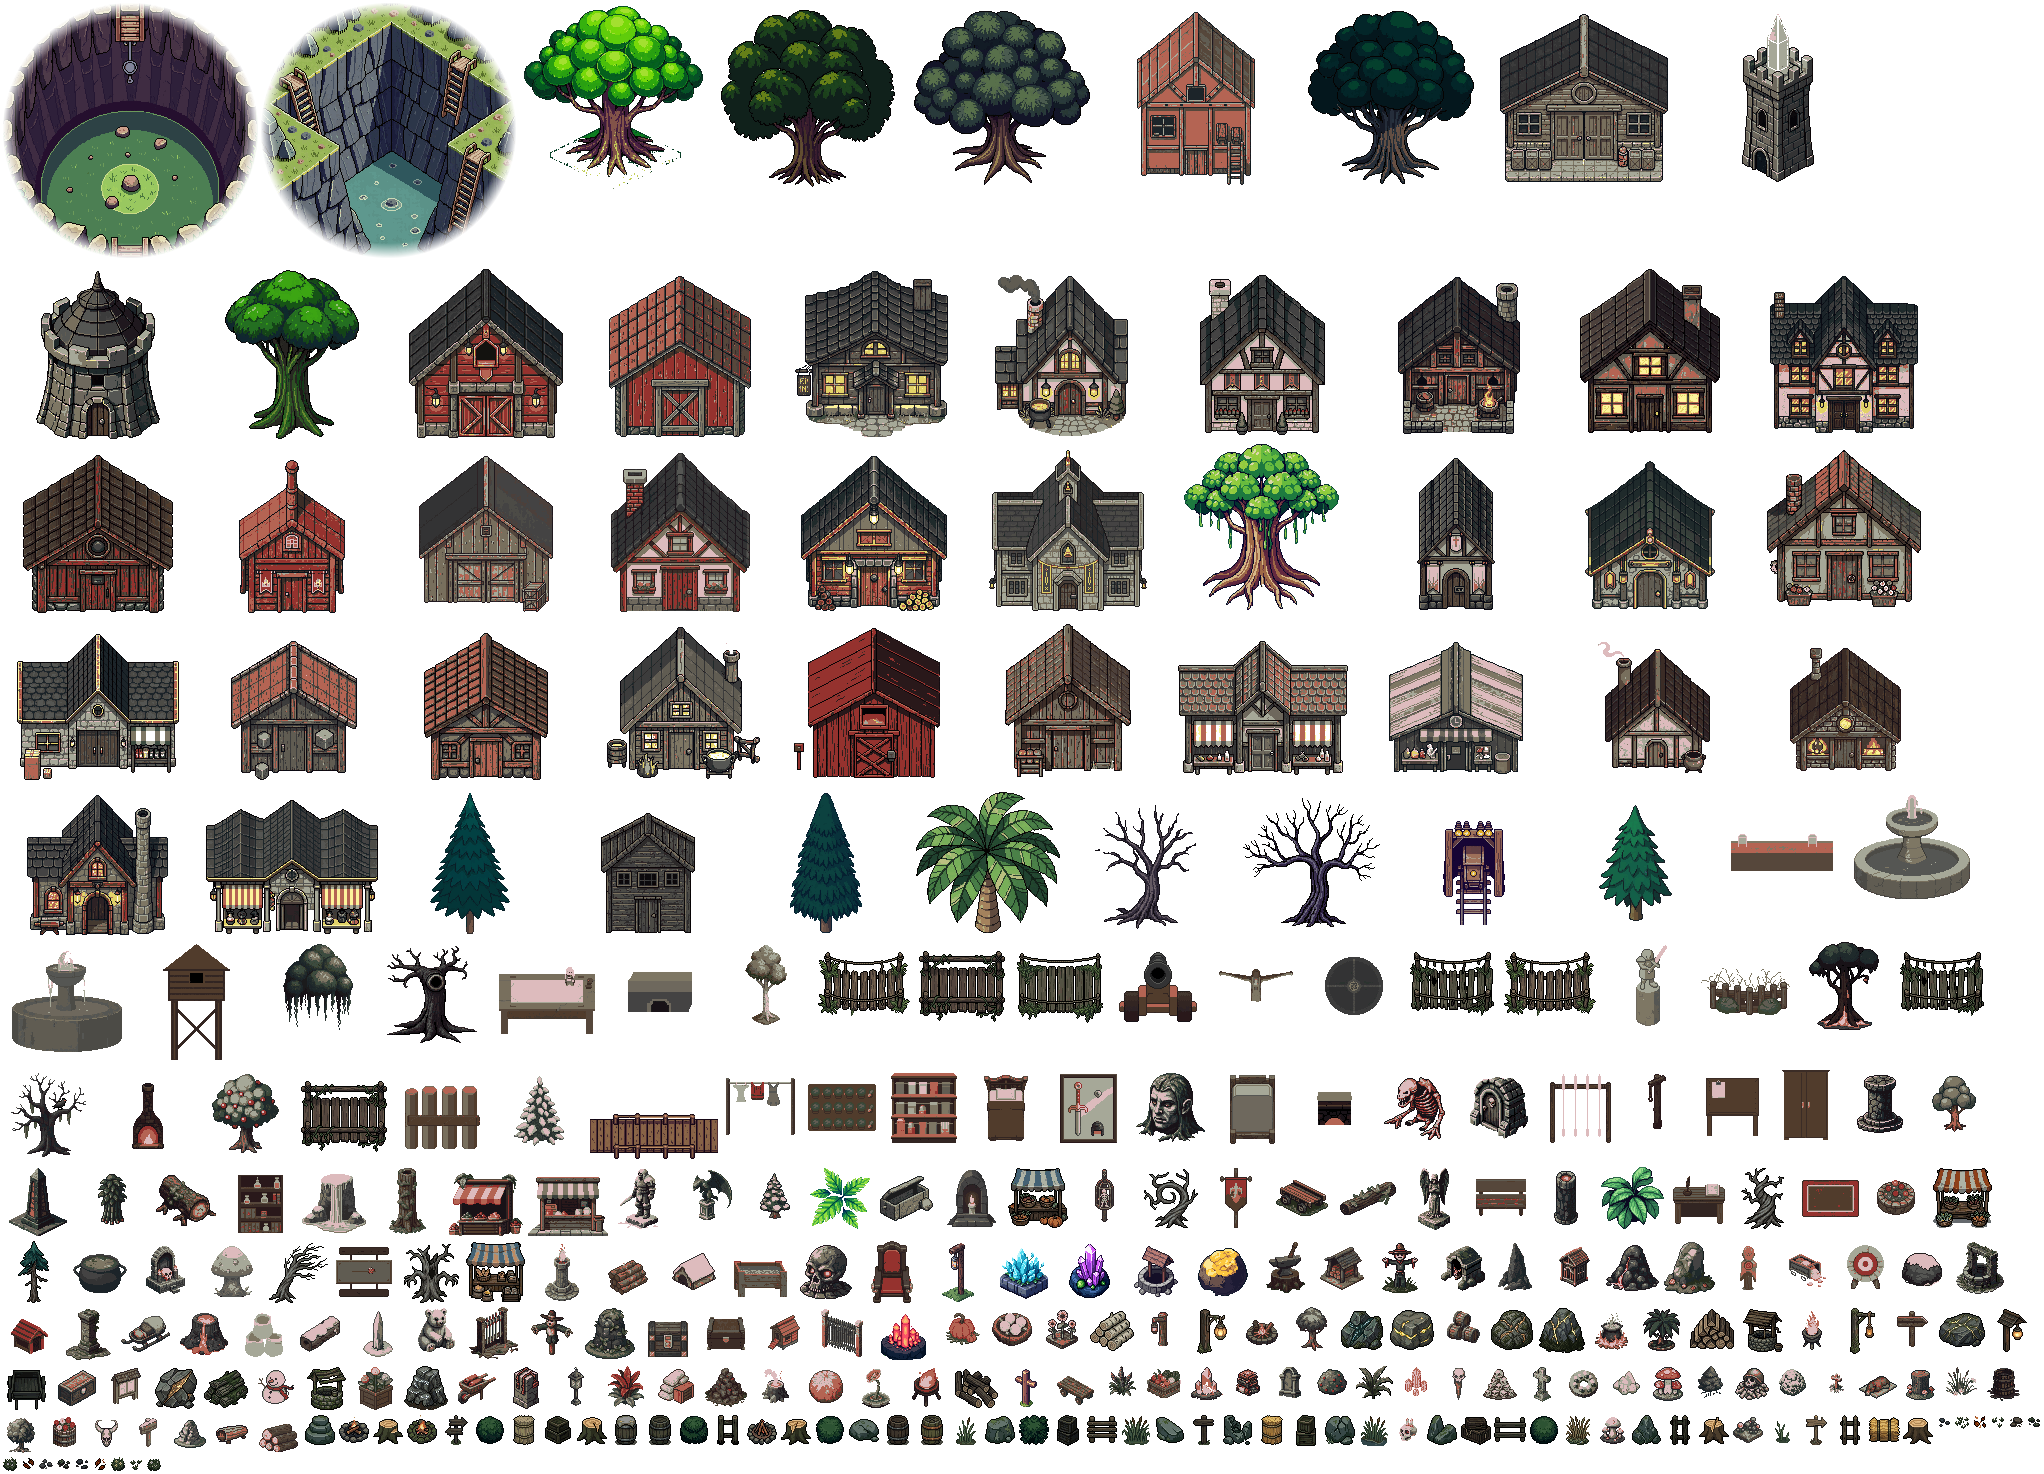
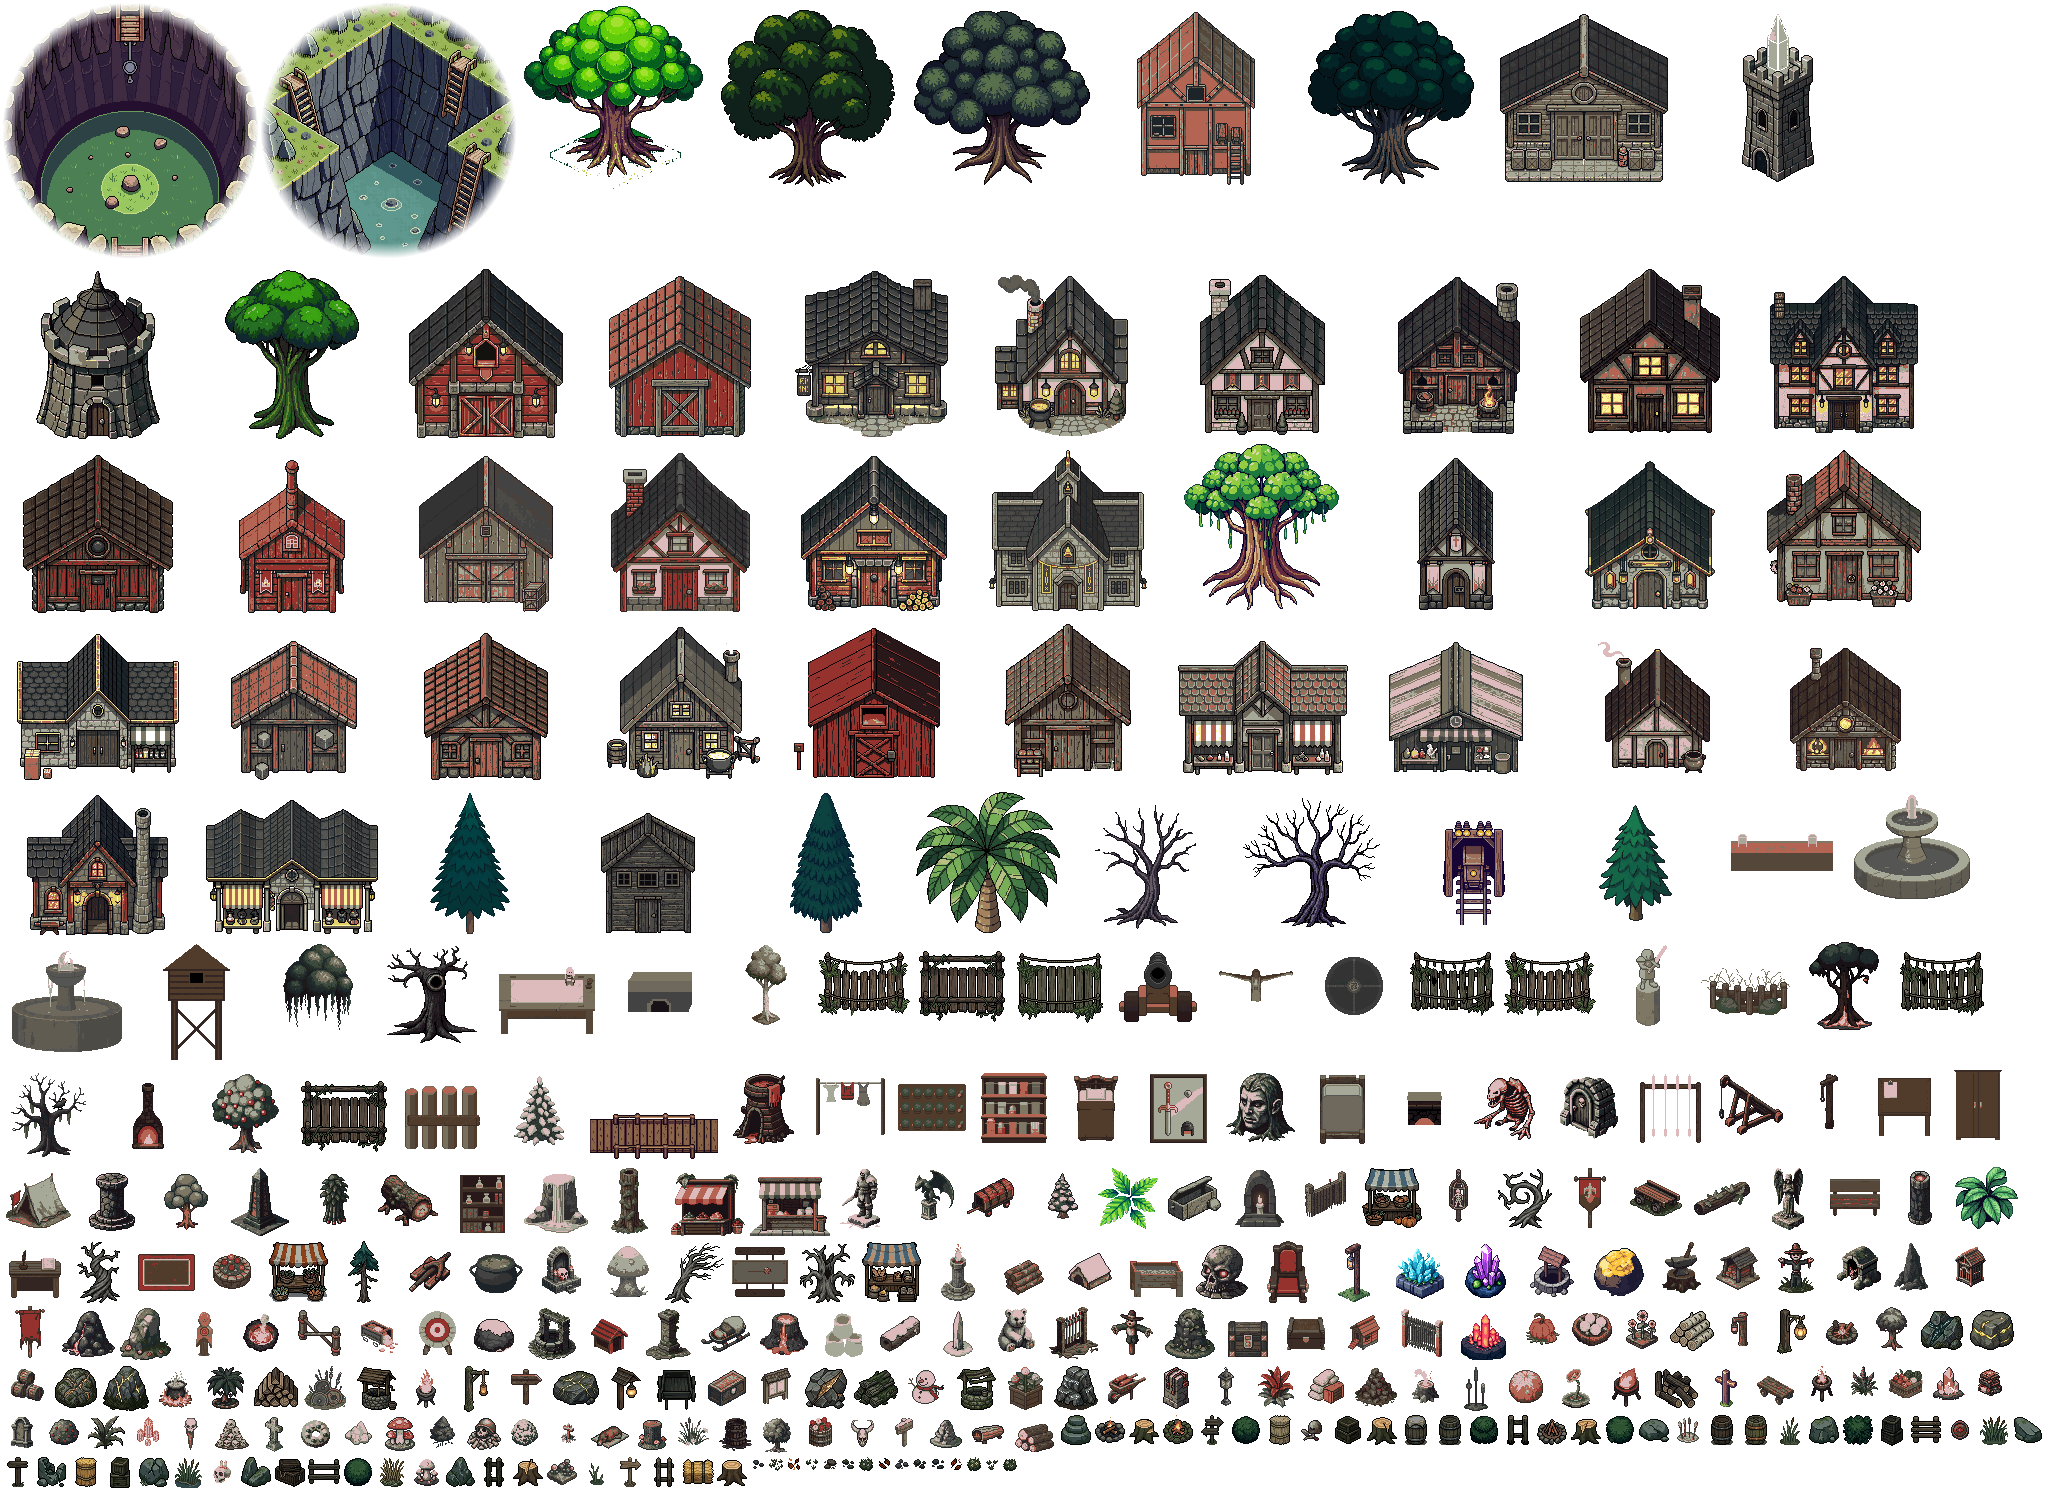
PvP battlefield WIP: war props (PixelLab), map data and rules [skip ci]
Claude-Session: https://claude.ai/code/session_018WYR7LhPJuZfA1TEgyVBxe

diff --git a/src/systems/pvp.ts b/src/systems/pvp.ts
@@ -1,0 +1,46 @@
+// ⚔ PvP battlefield rules (director 15 Nov): Lv40+, open at set hours (Bangkok), an entry fee in gold. Dying to a player
+// drops only what was farmed on the battlefield this visit (the "war bag": its gold and items) — gear worn or brought
+// in, VIP, diamonds, wings and mounts never drop. Damage between heroes is worked out by the map room (server).
+import type { GameState } from '../core/state';
+
+export const PVP_REQ = 40;
+export const PVP_FEE = 5000;
+/** open hours (Bangkok, [from, to)) */
+export const PVP_HOURS: [number, number][] = [[13, 14], [20, 22]];
+/** a hero hits another hero this share of a monster hit */
+export const PVP_MULT = 0.35;
+/** after a fall: back in after this long */
+export const PVP_OUT_MS = 3 * 60000;
+/** just arrived: nobody can hurt you for this long */
+export const PVP_SHIELD_MS = 10000;
+/** monsters here: gold x2 */
+export const PVP_GOLD = 2;
+
+const bkk = (now: number) => { const d = new Date(now + 7 * 3600000); return d.getUTCHours() + d.getUTCMinutes() / 60; };
+export const pvpOpen = (now = Date.now()) => { const h = bkk(now); return PVP_HOURS.some(([a, b]) => h >= a && h < b); };
+/** ms until the next opening (0 = open now) */
+export function pvpNext(now = Date.now()) {
+  if (pvpOpen(now)) return 0;
+  const h = bkk(now); let best = 99;
+  for (const [a] of PVP_HOURS) { const d = (a - h + 24) % 24; if (d < best) best = d; }
+  return Math.round(best * 3600000);
+}
+export interface WarBag { gold: number; items: { id: string; qty: number; uid?: number }[] }
+type PS = GameState & { warBag?: WarBag; pvpOut?: number };
+export const warBag = (s: GameState): WarBag => ((s as PS).warBag ??= { gold: 0, items: [] });
+export const clearWarBag = (s: GameState) => { (s as PS).warBag = { gold: 0, items: [] }; };
+export const pvpOutLeft = (s: GameState, now = Date.now()) => Math.max(0, ((s as PS).pvpOut ?? 0) - now);
+/** fell to a player: what was farmed here leaves the hero (what is still in the bag); returned for the ground */
+export function loseWarBag(s: GameState, now = Date.now()): WarBag {
+  const b = warBag(s), out: WarBag = { gold: Math.min(b.gold, s.gold), items: [] };
+  s.gold -= out.gold;
+  for (const it of b.items) {
+    const i = it.uid !== undefined ? s.inventory.findIndex(q => q.uid === it.uid) : s.inventory.findIndex(q => q.id === it.id);
+    if (i < 0) continue;
+    const inv = s.inventory[i], take = Math.min(it.qty, inv.qty ?? 1);
+    if (it.uid !== undefined || take >= (inv.qty ?? 1)) { s.inventory.splice(i, 1); out.items.push({ ...it, qty: take, ...(it.uid !== undefined ? { gear: inv } : {}) } as WarBag['items'][number]); }
+    else { inv.qty -= take; out.items.push({ id: it.id, qty: take }); }
+  }
+  clearWarBag(s); (s as PS).pvpOut = now + PVP_OUT_MS;
+  return out;
+}

diff --git a/src/world/stages.ts b/src/world/stages.ts
@@ -47,7 +47,14 @@ export const isRaid = (n: number) => n === RAID;
 const RAID_MOBS: StageMon[] = (() => { const seen = new Set<string>(), out: StageMon[] = []; for (const L of LANDS) for (const m of L.mobs) if (!seen.has(m.key)) { seen.add(m.key); out.push(m); } return out; })();
 export const RAID_LAND: Land = { id: 'forest', name: 'หมู่บ้านกลาง', ground: 'forest', mobs: RAID_MOBS, boss: LANDS[0].boss };
 export const raidStage = (level: number): Stage => ({ n: RAID, land: RAID_LAND, level: Math.max(1, Math.min(100, level)), req: 1, count: 0, boss: false, minRar: 0, mf: 0 });
-export const stageOf = (n: number, level: number): Stage => n === WILD ? wildStage(level) : isDungeon(n) ? dungeonStage(n - DUNGEON, level) : isRaid(n) ? raidStage(level) : STAGES[n - 1];
+/** ⚔ the PvP battlefield (director 15 Nov, docs/PVP.md): Lv40+, open at set hours, an entry fee; heroes fight each other.
+ *  Monsters of the later lands at the hero's level drop better; dying to a player drops only what was farmed here. */
+export const PVP = 400;
+export const isPvp = (n: number) => n === PVP;
+export const PVP_LAND: Land = { id: 'war', name: 'สมรภูมิเลือด', ground: 'lava', boss: LANDS[2].boss,
+  mobs: [LANDS[1].mobs[1], LANDS[1].mobs[2], LANDS[2].mobs[0], LANDS[2].mobs[1], LANDS[3].mobs[0]] };
+export const pvpStage = (level: number): Stage => ({ n: PVP, land: PVP_LAND, level: Math.max(40, Math.min(100, level)), req: 40, count: 34, boss: false, minRar: 2, mf: 60 });
+export const stageOf = (n: number, level: number): Stage => n === WILD ? wildStage(level) : isDungeon(n) ? dungeonStage(n - DUNGEON, level) : isRaid(n) ? raidStage(level) : isPvp(n) ? pvpStage(level) : STAGES[n - 1];
 /** mine pits of the Deepwild: each pit has its own ore, rare gem and the level needed to dig there */
 export const PITS = [
   { ore: 'ore_iron', gem: 'gem_emerald', req: 1, name: 'เหมืองเหล็ก' },

diff --git a/tools/gen_props2.py b/tools/gen_props2.py
@@ -125,6 +125,22 @@ JOBS = [
     ('pp_vil_logstack', 'a neat stack of cut firewood under a small roof', 56),
     ('pp_vil_flowerbed', 'a small flower bed with sunflowers', 48),
     ('pp_vil_scarecrow', 'a friendly scarecrow with a straw hat in a field', 56),
+    # war (the PvP battlefield, director 15 Nov): wrecked siege gear, barricades, banners — big / along the paths / small
+    ('pp_war_catapult', 'a wrecked wooden catapult siege engine, broken arm and snapped ropes, scorched', 80),
+    ('pp_war_tower', 'a burnt broken wooden siege tower leaning, charred planks, torn red cloth', 88),
+    ('pp_war_tent', 'a torn army camp tent, dirty canvas half collapsed, a red war banner beside it', 72),
+    ('pp_war_banner', 'a tall tattered red war banner on a wooden pole stuck in the ground, ragged edges', 56),
+    ('pp_war_barricade', 'a barricade of sharpened wooden stakes crossed and tied with rope', 56),
+    ('pp_war_weapons', 'a pile of abandoned swords, spears and round shields stuck in the mud', 48),
+    ('pp_war_cart', 'a broken overturned wooden supply cart with a snapped wheel and spilled crates', 64),
+    ('pp_war_pike', 'three long spears stuck upright in the ground with a dented iron helmet on top of one', 48),
+    ('pp_war_palisade', 'a short section of ruined wooden palisade wall with arrows stuck in it', 64),
+    ('pp_war_ballista', 'a broken ballista crossbow siege weapon on a wooden frame', 64),
+    ('pp_war_brazier', 'an iron war brazier with burning coals and flames on a tripod', 40),
+    ('pp_war_crater', 'a scorched blast crater in dark earth with smoking embers, seen from above', 56),
+    ('pp_war_arrows', 'a cluster of arrows stuck in the ground at angles', 32),
+    ('pp_war_helmet', 'a dented rusty iron helmet and a broken sword lying on the ground', 32),
+    ('pp_war_shield', 'a cracked wooden round shield with a red emblem lying on the ground', 32),
     ('pp_vil_barrels', 'three wooden barrels stacked together', 48),
     ('pp_vil_dogbowl', 'a sleeping brown village dog on a mat', 40),
 ]
